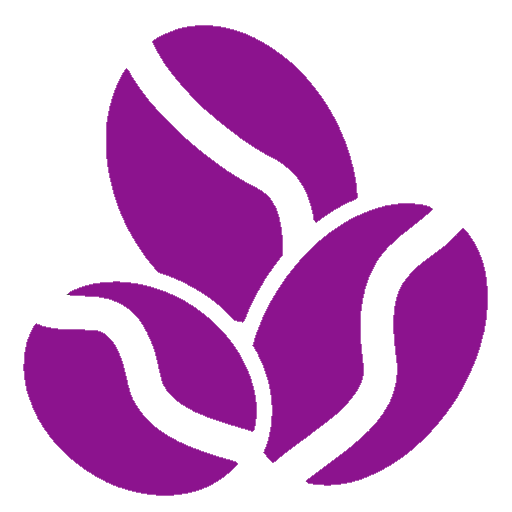
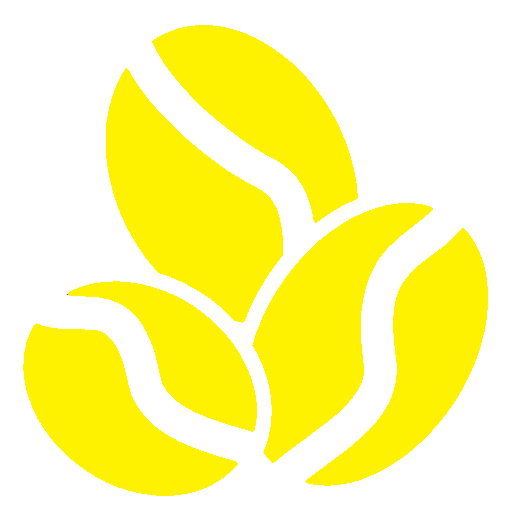
add btns

diff --git a/startPage.js b/startPage.js
@@ -1,5 +1,6 @@
-let gameStory = " THEY lost their mom in an accident last year. they went through a depression phase afterward right when they were exploring their gender identity and concerns as well. They asked for an unpaid leave of their job and for long time stayed in bed doing nothing except watching random videos on youtube, eating frozen pizzas and drinking a lot. Now they started to feel better again. They go to therapy and need to watch their both mental and physical health out. They want to bring balance in their life again and get the social life they had back. with working 8 hours per day, attending to events they like, meeting friends and the loved ones, going to gym and eating healthy, good food. It’s not that easy though, but they believe that they could do it. Would you help them on this journey? "
-// let gameName = "game's The of the game";
+let gameStory = " THEY lost their mom in an accident last year. "
+// they went through a depression phase afterward right when they were exploring their gender identity and concerns as well. They asked for an unpaid leave of their job and for long time stayed in bed doing nothing except watching random videos on youtube, eating frozen pizzas and drinking a lot. Now they started to feel better again. They go to therapy and need to watch their both mental and physical health out. They want to bring balance in their life again and get the social life they had back. with working 8 hours per day, attending to events they like, meeting friends and the loved ones, going to gym and eating healthy, good food. It’s not that easy though, but they believe that they could do it. Would you help them on this journey? "
+
 
 
 // creat text class for writing on canvas
@@ -39,28 +40,22 @@ class text {
                 ctx.fillText(this.string.charAt(i), this.x, this.y);
             }
             // to write the command to start the game after writing the story
-            if (j >= this.string.length + 30) {
-                f = j - this.string.length - 30
-                ctx.fillText(this.string2.charAt(f), this.x1, 500);
-            }
+            // if (j >= this.string.length + 30) {
+            //     f = j - this.string.length - 30
+            //     ctx.fillText(this.string2.charAt(f), this.x1, 500);
+            // }
             j++;
             i++;
-            f++
+            // f++
             // move the x by the width of the letter after writing it
             this.x += letterWidth;
             this.x1 += letterWidth2;
-
-
-            if (i === this.string.length + this.string2.length) {
+            if (i === this.string.length) {
                 clearInterval(typeText);
             }
         }, speed);
     }
-    updateTitle() {
-        ctx.fillStyle = "#B1B3B3FF"
-        ctx.font = "40px Arial";
-        ctx.fillText(this.string, this.x, this.y);
-    }
+
 
 
 

diff --git a/draw-bg.js b/draw-bg.js
@@ -10,12 +10,17 @@ imgSun = new Image();
 imgSun.src = "images/l2_sun.png";
 imgClouds = new Image();
 imgClouds.src = "images/l4_clouds.png";
+btnImgStartGame = new Image()
+btnImgStartGame.src = "images/Start-game.png"
+
 
 function drawFirstBg() {
     ctx.drawImage(this.imgBg, 0, 0, ctx.canvas.width, canvas.height);
     ctx.drawImage(this.imgStars, 0, 0, ctx.canvas.width, canvas.height);
     ctx.drawImage(this.imgBuilding, 0, 0, ctx.canvas.width, canvas.height);
     ctx.drawImage(this.imgLamps, 0, 0, ctx.canvas.width, canvas.height);
+    ctx.drawImage(this.btnImgStartGame, 500, 400, 200, 50);
+
 }
 
 imgBuildingBoardGame = new Image();
@@ -30,12 +35,15 @@ imgCloudsBoardGame = new Image();
 imgCloudsBoardGame.src = "images/gameCityBg/clouds.png";
 imgGroundBoardGame = new Image();
 imgGroundBoardGame.src = "images/gameCityBg/ground.png";
+imgBuildings2BoardGame = new Image();
+imgBuildings2BoardGame.src = "images/gameCityBg/l6_buildings02.png";
 
 function drawGameBoardBg() {
     ctx.drawImage(this.imgBgBoardGame, 0, 0, ctx.canvas.width, canvas.height);
     ctx.drawImage(this.imgSunBoardGame, 0, 0, ctx.canvas.width, canvas.height);
     ctx.drawImage(this.imgCloudsBoardGame, 0, 0, ctx.canvas.width, canvas.height);
     ctx.drawImage(this.imgBuildingBoardGame, 0, 0, ctx.canvas.width, canvas.height);
+    ctx.drawImage(this.imgBuildings2BoardGame, 0, 0, ctx.canvas.width, canvas.height);
     ctx.drawImage(this.imgLampsBoardGame, 0, 0, ctx.canvas.width, canvas.height);
     ctx.drawImage(this.imgGroundBoardGame, 0, 0, ctx.canvas.width, canvas.height);
 }
@@ -52,13 +60,17 @@ imgStarsEndGame = new Image();
 imgStarsEndGame.src = "images/endGameBg/stars.png";
 imgGroundEndGame = new Image();
 imgGroundEndGame.src = "images/endGameBg/ground.png";
+btnImgPlayAgain = new Image()
+btnImgPlayAgain.src = "images/Play-again.png"
 
 function drawEndGameBg() {
     ctx.drawImage(this.imgBgEndGame, 0, 0, ctx.canvas.width, canvas.height);
     ctx.drawImage(this.imgMoonEndGame, 0, 0, ctx.canvas.width, canvas.height);
     ctx.drawImage(this.imgStarsEndGame, 0, 0, ctx.canvas.width, canvas.height);
     ctx.drawImage(this.imgBuildingEndGame, 0, 0, ctx.canvas.width, canvas.height);
-    ctx.drawImage(this.imgLampsEndgame, 0, 0, ctx.canvas.width, canvas.height);
     ctx.drawImage(this.imgGroundEndGame, 0, 0, ctx.canvas.width, canvas.height);
+    ctx.drawImage(this.imgLampsEndgame, 0, 0, ctx.canvas.width, canvas.height);
+    ctx.drawImage(this.btnImgPlayAgain, 500, 430, 200, 50);
+
 
 }

diff --git a/secondLayout.js b/secondLayout.js
@@ -1,6 +1,7 @@
 // Getting the canvas from html page
 let canvas = document.getElementById("canvas");
 let ctx = document.getElementById("canvas").getContext("2d");
+// let bodyCtx = document.getElementsByTagName("body")
 
 window.onload = () => {
   firstPage();
@@ -54,16 +55,14 @@ let drawEndGame = () => {
   // draw img if the player won
   if (!runningGame && !winGame) {
     drawEndGameBg();
-    let winImg = new Image();
-    winImg.src = "images/youwin.png";
-    ctx.drawImage(winImg, 400, 150, 400, 400);
+    // let winImg = new Image();
+    // winImg.src = "images/youwin.png";
+    // ctx.drawImage(winImg, 400, 150, 400, 400);
     // draw another img if the player lost
   } else {
-    // body.style.background = "url('images / l4_buildings01.png' ), url('images / l2_stars.png '),url('images/endGameBg/background.png')";
+    // bodyCtx.style.background-image = "url('images /l4_buildings01.png' ), url('images /l2_stars.png '),url('images/endGameBg/background.png')";
     drawEndGameBg();
-    let winImg = new Image();
-    winImg.src = "images/gameover.jpg";
-    ctx.drawImage(winImg, 400, 150, 400, 400);
+
   }
   // press space to play the game again
   document.onkeydown = (e) => {
@@ -126,7 +125,6 @@ let drawGameBoard = () => {
       // add the score
       if (scores[e.scoreType] <= 9) {
         scores[e.scoreType] += 1;
-        console.log(scores[e.scoreType])
       }
       // get the index of the object in the array after the play with it
       ind = i;
@@ -146,7 +144,6 @@ let drawGameBoard = () => {
       }
 
       if (e.scoreType == "obstacles") {
-        console.log("loser");
         runningGame = false;
         gameOverSound.play();
       }
@@ -155,12 +152,12 @@ let drawGameBoard = () => {
     // draw the object in the array
     if (e.scoreType == "obstacles") {
       //Animation frame counter
-      if(counter%8===0){
+      if (counter % 8 === 0) {
         //To have the acces every %8 frame and update the index in the class obstacle
-        e.currentImageIdx=(e.currentImageIdx+1)%e.images.length
+        e.currentImageIdx = (e.currentImageIdx + 1) % e.images.length
       }
       e.update();
-      
+
     } else {
       e.update();
     }
@@ -277,6 +274,8 @@ let drawGameBoard = () => {
 
 document.onkeydown = key
 
+
+// boolean to change the player img according to the direction
 let leftDir = false
 let rightDir = false
 let UpDownDir = false

diff --git a/clickhandler.js b/clickhandler.js
@@ -1,0 +1,55 @@
+// var elem = document.getElementById('myCanvas'),
+let canvasLeft = canvas.offsetLeft;
+let canvasTop = canvas.offsetTop;
+// context = elem.getContext('2d'),
+elements = [];
+let element = {
+    top: 400,
+    left: 500,
+    width: 200,
+    height: 50
+}
+class btnToClick {
+    constructor(top, left, width, height) {
+        this.top = top;
+        this.left = left;
+        this.width = width;
+        this.height = height
+    }
+}
+
+let startBtn = new btnToClick(400, 500, 200, 50)
+let endBtn = new btnToClick(430, 500, 200, 50)
+
+
+// Add event listener for `click` events.
+canvas.addEventListener('click', function (event) {
+    let x = event.pageX - canvasLeft;
+    let y = event.pageY - canvasTop;
+
+    // Collision detection between clicked offset and element.
+    // elements.forEach(function (element) {
+    if (y > startBtn.top && y < startBtn.top + startBtn.height &&
+        x > startBtn.left && x < startBtn.left + startBtn.width) {
+        startGame();
+        gameStart = true;
+
+    }
+
+
+}, false);
+
+
+canvas.addEventListener('click', function (event) {
+    let x = event.pageX - canvasLeft;
+    let y = event.pageY - canvasTop;
+
+    // Collision detection between clicked offset and element.
+    // elements.forEach(function (element) {
+    if (y > endBtn.top && y < endBtn.top + endBtn.height &&
+        x > endBtn.left && x < endBtn.left + endBtn.width) {
+        location.reload()
+    }
+
+
+}, false);

diff --git a/classes.js b/classes.js
@@ -32,9 +32,9 @@ let player = {
     },
     // to draw the player on the canvas
     update: function () {
-        // ctx.fillRect(this.x, this.y, this.width, this.height);
+
         ctx.fillStyle = "red";
-        //this.img.src = "images/player/face .png";
+
         this.imgSrc = ["/images/player/face.png", "/images/player/profileboy.png", "/images/player/profilegirl.png"]
         if (gameStart) {
             this.img.src = this.imgSrc[0]
@@ -221,10 +221,10 @@ class obstacles extends object {
     update() {
         //The image will be drawn depending on the frames on secondLayout with its current index
         ctx.drawImage(this.images[this.currentImageIdx], this.x, this.y, this.width, this.height);
-        this.x += this.speedX;   
+        this.x += this.speedX;
     }
-    
 
-        
-    
+
+
+
 }

diff --git a/styles.css b/styles.css
@@ -7,7 +7,7 @@ header {
   justify-content: flex-start;
   align-items: flex-start;
   align-content: flex-start;
-  height: 50px;
+  height: 90px;
   margin: 0;
   padding: 0;
 
@@ -25,8 +25,7 @@ body {
   flex-direction: column;
   justify-content: flex-start;
   align-items: center;
-  background-image: url("images/l4_buildings01.png"), url("images/l2_stars.png"),
-    url("images/l1_background.png");
+  background-image: url("images/l2_stars.png"), url("images/l1_background.png");
 
   background-repeat: no-repeat, no-repeat;
   background-size: cover, cover;

diff --git a/index.html b/index.html
@@ -10,7 +10,9 @@
 
   <body>
     <header>
-      <h1>Life Balance Game</h1>
+      <img src="images/Gaming-with-life.png" />
+
+      <!-- <h1>Gaming With Life</h1> -->
     </header>
     <div id="game-board">
       <canvas id="canvas" width="1200" height="700"></canvas>
@@ -35,6 +37,7 @@
     <script src="circle.js"></script>
     <script src="draw-bg.js"></script>
     <script src="add-sound.js"></script>
+    <script src="clickhandler.js"></script>
 
     <!-- <script src="animation.js"></script> -->
   </body>

diff --git a/circle.js b/circle.js
@@ -123,7 +123,7 @@ let drawItemHealth = score => {
 let drawItemLeisure = score => {
   let startAngleLeisure = Math.PI / 2;
   let endAngleLeisure = 0;
-  let colorLeisure = "#8c138e";
+  let colorLeisure = "#fff200";
 
   let radius = 20;
   for (let i = 0; i < score; i++) {
